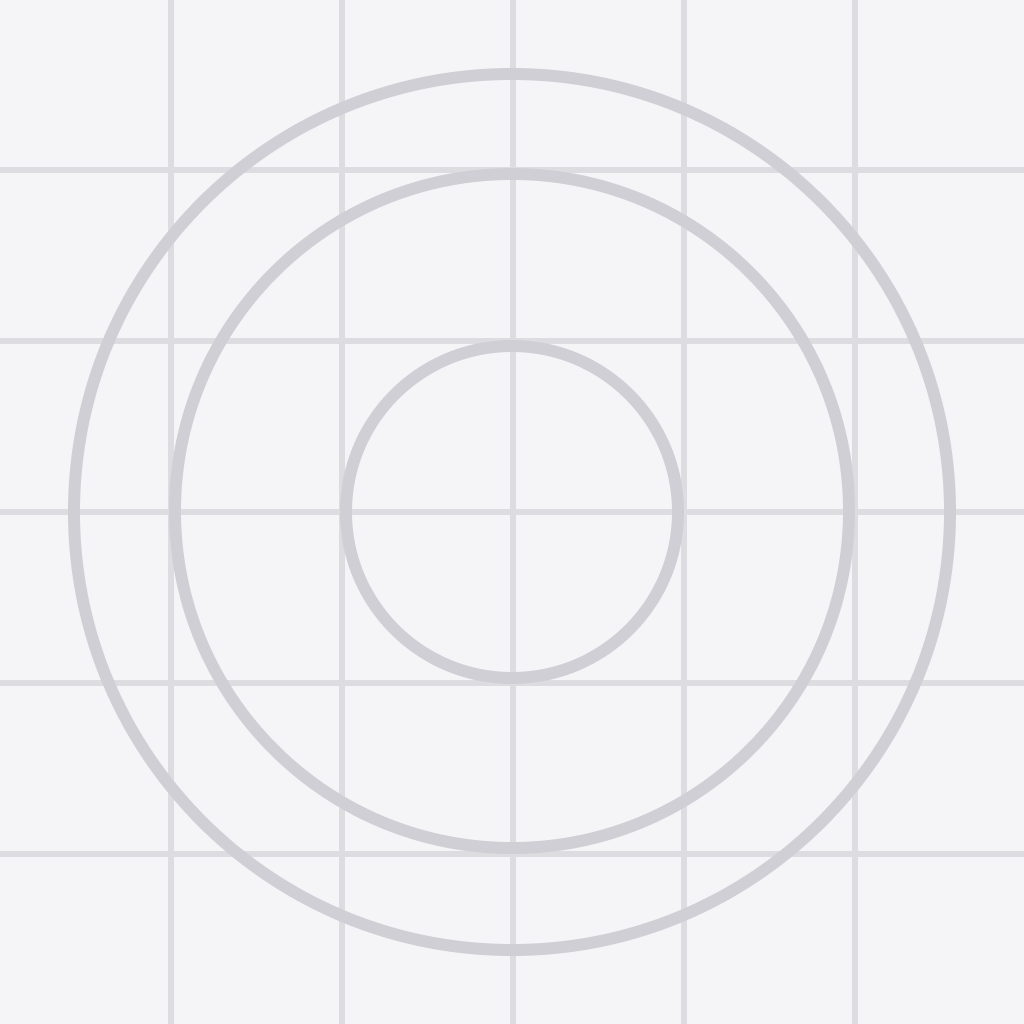
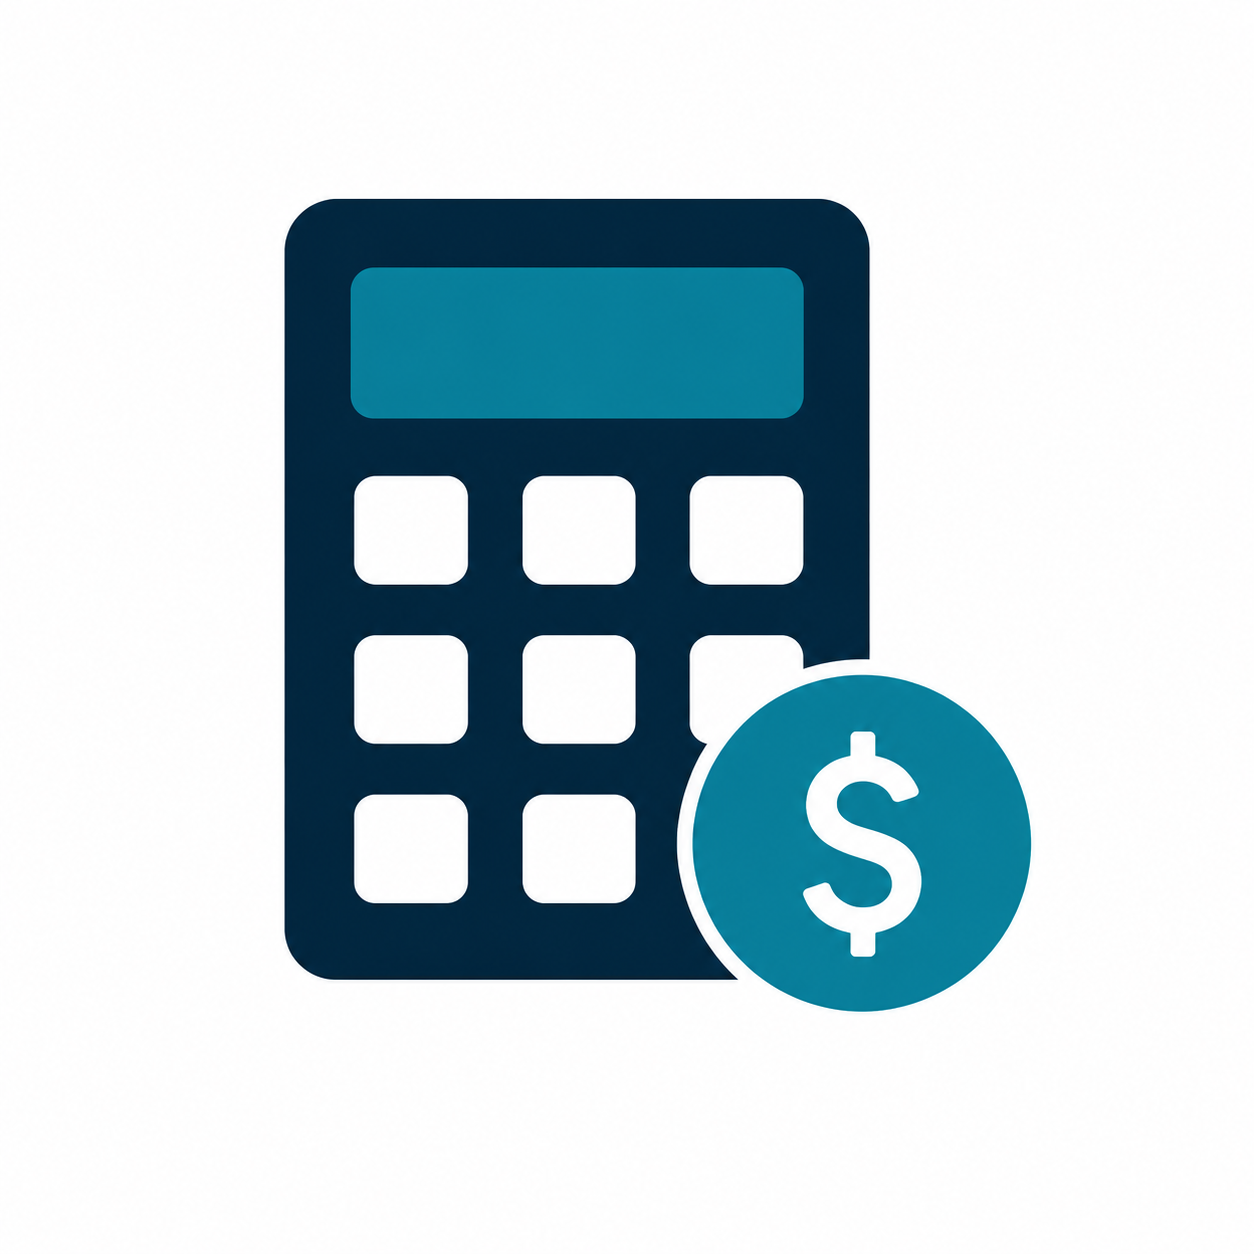
404

diff --git a/src/modules/suite/components/HeroIllustration.tsx b/src/modules/suite/components/HeroIllustration.tsx
@@ -1,8 +1,13 @@
-import { StyleSheet, Text, View } from 'react-native';
+import { Image, StyleSheet, Text, View } from 'react-native';
 import { colors, radius, spacing } from '@/theme';
 import { useResponsive } from '@/hooks/useResponsive';
 
-/** Ilustración abstracta vivienda/finanzas — sin fotos genéricas. */
+const heroLogo = require('../../../../assets/brand/mealcanza.png');
+
+/**
+ * Hero visual: fondo azul claro + logo central + acentos UF y lupa
+ * (misma composición que la ilustración original de la casa).
+ */
 export function HeroIllustration() {
   const { isMobile } = useResponsive();
 
@@ -12,22 +17,25 @@ export function HeroIllustration() {
     <View
       style={styles.canvas}
       accessibilityRole="image"
-      accessibilityLabel="Ilustración de vivienda y cálculo financiero"
+      accessibilityLabel="Logo ¿Me alcanza?"
     >
-      <View style={styles.house}>
-        <View style={styles.roof} />
-        <View style={styles.body}>
-          <View style={styles.door} />
-          <View style={styles.window} />
-        </View>
+      <View style={styles.logoClip}>
+        <Image
+          source={heroLogo}
+          style={styles.logo}
+          resizeMode="cover"
+          accessibilityIgnoresInvertColors
+        />
       </View>
-      <View style={styles.cardFloat}>
+
+      <View style={styles.cardFloat} accessibilityElementsHidden>
         <Text style={styles.cardLabel}>UF</Text>
         <View style={styles.barTall} />
         <View style={styles.barMid} />
         <View style={styles.barShort} />
       </View>
-      <View style={styles.key}>
+
+      <View style={styles.key} accessibilityElementsHidden>
         <View style={styles.keyHead} />
         <View style={styles.keyShaft} />
       </View>
@@ -38,7 +46,7 @@ export function HeroIllustration() {
 const styles = StyleSheet.create({
   canvas: {
     flex: 1,
-    minHeight: 260,
+    minHeight: 280,
     backgroundColor: '#E8F1F4',
     borderRadius: radius.lg,
     borderWidth: 1,
@@ -47,49 +55,21 @@ const styles = StyleSheet.create({
     justifyContent: 'center',
     overflow: 'hidden',
     position: 'relative',
+    padding: spacing.lg,
   },
-  house: {
+  logoClip: {
+    width: 200,
+    height: 200,
+    borderRadius: 100,
+    overflow: 'hidden',
+    backgroundColor: colors.white,
     alignItems: 'center',
+    justifyContent: 'center',
     zIndex: 1,
   },
-  roof: {
-    width: 0,
-    height: 0,
-    borderLeftWidth: 70,
-    borderRightWidth: 70,
-    borderBottomWidth: 48,
-    borderLeftColor: 'transparent',
-    borderRightColor: 'transparent',
-    borderBottomColor: colors.primary,
-  },
-  body: {
-    width: 120,
-    height: 90,
-    backgroundColor: colors.white,
-    borderWidth: 2,
-    borderColor: colors.primary,
-    borderBottomLeftRadius: radius.sm,
-    borderBottomRightRadius: radius.sm,
-    flexDirection: 'row',
-    alignItems: 'flex-end',
-    justifyContent: 'space-around',
-    paddingBottom: spacing.sm,
-  },
-  door: {
-    width: 28,
-    height: 44,
-    backgroundColor: colors.secondary,
-    borderTopLeftRadius: 4,
-    borderTopRightRadius: 4,
-  },
-  window: {
-    width: 28,
-    height: 28,
-    backgroundColor: '#D6EAF0',
-    borderWidth: 2,
-    borderColor: colors.primary,
-    borderRadius: 4,
-    marginBottom: spacing.md,
+  logo: {
+    width: 200,
+    height: 200,
   },
   cardFloat: {
     position: 'absolute',
@@ -103,6 +83,7 @@ const styles = StyleSheet.create({
     padding: spacing.sm,
     gap: 4,
     alignItems: 'flex-start',
+    zIndex: 2,
   },
   cardLabel: {
     fontSize: 11,
@@ -134,6 +115,7 @@ const styles = StyleSheet.create({
     bottom: spacing.lg,
     flexDirection: 'row',
     alignItems: 'center',
+    zIndex: 2,
   },
   keyHead: {
     width: 22,

diff --git a/src/components/layout/SiteHeader.tsx b/src/components/layout/SiteHeader.tsx
@@ -1,5 +1,5 @@
 import { useState } from 'react';
-import { Platform, Pressable, StyleSheet, Text, View } from 'react-native';
+import { Image, Platform, Pressable, StyleSheet, Text, View } from 'react-native';
 import { usePathname } from 'expo-router';
 import { useSafeAreaInsets } from 'react-native-safe-area-context';
 import { AppLink } from '@/components/ui/AppLink';
@@ -10,6 +10,8 @@ import { routes } from '@/navigation/routes';
 import type { AppRoute } from '@/navigation/routes';
 import { colors, radius, spacing } from '@/theme';
 import { layout } from '@/theme/layout';
+
+const headerLogo = require('../../../assets/brand/mealcanza2.png');
 
 const navItems = [
   { label: navCopy.home, href: routes.home },
@@ -57,8 +59,12 @@ export function SiteHeader({ withSafeArea = true }: Props) {
             style={styles.brandBlock}
             accessibilityLabel={`${suiteCopy.appName}. Ir al inicio`}
           >
-            <Text style={styles.brand}>{suiteCopy.appName}</Text>
-            {!isMobile ? <Text style={styles.tagline}>{suiteCopy.tagline}</Text> : null}
+            <Image
+              source={headerLogo}
+              style={[styles.brandLogo, isMobile && styles.brandLogoMobile]}
+              resizeMode="contain"
+              accessibilityIgnoresInvertColors
+            />
           </AppLink>
 
           {!isMobile ? (
@@ -129,27 +135,26 @@ const styles = StyleSheet.create({
   },
   inner: {
     gap: 0,
-    paddingVertical: spacing.sm,
+    paddingVertical: spacing.md,
   },
   row: {
     flexDirection: 'row',
     alignItems: 'center',
     justifyContent: 'space-between',
     gap: spacing.md,
-    minHeight: layout.minTouchTarget,
+    minHeight: layout.minTouchTarget + 8,
   },
   brandBlock: {
     flexShrink: 1,
-    gap: 2,
+    justifyContent: 'center',
   },
-  brand: {
-    fontSize: 18,
-    fontWeight: '700',
-    color: colors.primary,
+  brandLogo: {
+    width: 280,
+    height: 60,
   },
-  tagline: {
-    fontSize: 12,
-    color: colors.mutedText,
+  brandLogoMobile: {
+    width: 210,
+    height: 46,
   },
   nav: {
     flexDirection: 'row',

diff --git a/src/app/+html.tsx b/src/app/+html.tsx
@@ -15,6 +15,8 @@ export default function Root({ children }: PropsWithChildren) {
           name="viewport"
           content="width=device-width, initial-scale=1, shrink-to-fit=no"
         />
+        <link rel="icon" href="/favicon.png" type="image/png" />
+        <link rel="apple-touch-icon" href="/image/icon.png" />
         <ScrollViewStyleReset />
         <style dangerouslySetInnerHTML={{ __html: responsiveBackground }} />
       </head>